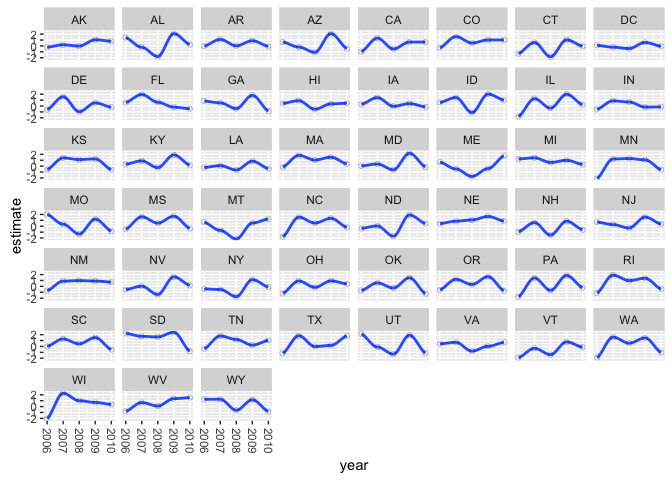
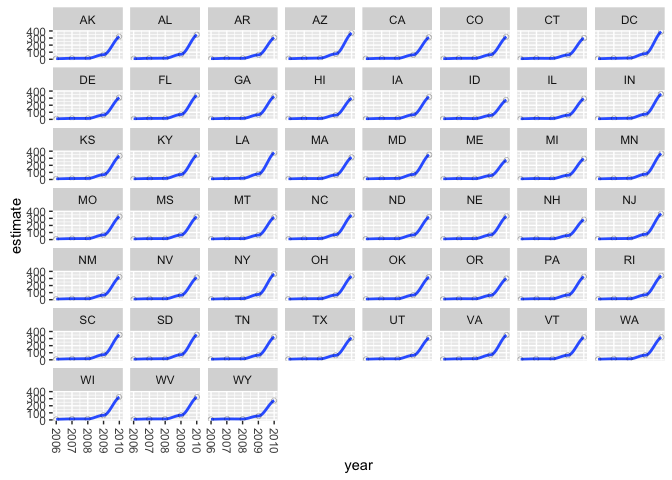
Refresh readme

diff --git a/README.md b/README.md
@@ -12,7 +12,7 @@ Installation
 ------------
 
 ``` r
-devtools::install_github("jamesdunham/dgirt")
+# devtools::install_github("jamesdunham/dgirt")
 ```
 
 Get updates by reinstalling. dgirt is in early stages and under development. See [NEWS](NEWS.md), last updated 2016-01-28.
@@ -30,7 +30,8 @@ Use
 `state_opinion` is a dataset included with `dgirt` in which rows correspond to survey responses from individuals.
 
 ``` r
-library(dgirt)
+# library(dgirt)
+devtools::load_all()
 data(state_opinion)
 ```
 
@@ -48,7 +49,7 @@ We'll use the `vars` argument to identify variables of importance in `data` (e.g
 The names of the item response variables start with "Q\_", so we'll pass them using `grep`.
 
 ``` r
-state_opinion_fmt = wrangle(
+wrangle_output = wrangle(
   data = list(level1 = state_opinion),
   vars = list(items = grep("^Q_", colnames(state_opinion), value = TRUE),
               groups = c("race"),
@@ -63,46 +64,70 @@ This output omits verbose messages. `wrangle` returns a list of objects that `dg
 
 `dgirt()` calls `rstan()`, which reports any problems it encounters when compiling the model and sampling. Reporting is verbose and not all messages indicate problems. If sampling is successful, `dgirt()` returns an object of class `stanfit`. (See rstan documentation.)
 
-A short trial run is often a good idea.
-
 ``` r
-dgirt_estimates = dgirt(state_opinion_fmt, n_iter = 3, n_chain = 1)
+dgirt_output = dgirt(wrangle_output, n_iter = 10, n_chain = 1)
 #> 
 #> SAMPLING FOR MODEL '84f408a951e786210b324c1e54eefa8c' NOW (CHAIN 1).
 #> 
-#> Chain 1, Iteration: 1 / 3 [ 33%]  (Warmup)
-#> Chain 1, Iteration: 2 / 3 [ 66%]  (Warmup)
-#> Chain 1, Iteration: 3 / 3 [100%]  (Sampling)# 
-#> #  Elapsed Time: 0.116099 seconds (Warm-up)
-#> #                0.013264 seconds (Sampling)
-#> #                0.129363 seconds (Total)
+#> Chain 1, Iteration: 1 / 10 [ 10%]  (Warmup)
+#> Chain 1, Iteration: 2 / 10 [ 20%]  (Warmup)
+#> Chain 1, Iteration: 3 / 10 [ 30%]  (Warmup)
+#> Chain 1, Iteration: 4 / 10 [ 40%]  (Warmup)
+#> Chain 1, Iteration: 5 / 10 [ 50%]  (Warmup)
+#> Chain 1, Iteration: 6 / 10 [ 60%]  (Warmup)
+#> Chain 1, Iteration: 7 / 10 [ 70%]  (Warmup)
+#> Chain 1, Iteration: 8 / 10 [ 80%]  (Sampling)
+#> Chain 1, Iteration: 9 / 10 [ 90%]  (Sampling)
+#> Chain 1, Iteration: 10 / 10 [100%]  (Sampling)# 
+#> #  Elapsed Time: 0.394312 seconds (Warm-up)
+#> #                1.18672 seconds (Sampling)
+#> #                1.58103 seconds (Total)
 #> #
 ```
 
-We omit verbose messages here. Now, a longer run:
-
-    # Not run
-    dgirt_estimates = dgirt(state_opinion_fmt, n_iter = 2000, n_chain = 4)
-
-To examine the the `dgirt()` results we can use `extract_dgirt()`, which attaches labels to the saved parameters according to the variable names originally passed to `wrangle()` and any factor levels. Right now, `extract_dgirt()` shows only the posterior means.
-
-Note that `dgirt()` returns a `stanfit` object when `method = "rstan"` (as above, the default) and a list of point estimates if `method = "optimize"` (details below); `extract_dgirt()` only works with `stanfit` objects. (The inconsistency in return types isn't desirable and will change in the future.)
-
-The group means can be found as `theta_bar`.
+Before examining the `dgirt()` output we might want to name its elements.
 
 ``` r
-dgirt_extract = extract_dgirt(dgirt_estimates, state_opinion_fmt)
-head(dgirt_extract$theta_bar)
-#> Source: local data frame [6 x 6]
+named_dgirt_output = name(dgirt_output, wrangle_output)
+```
+
+The group means can be found as an array `theta_bar`, which is samples x periods x groups. We can `apply` over the sampler iterations (just the 3 in 10 kept from our short run, in this example) to summarize the posterior.
+
+``` r
+str(named_dgirt_output$theta_bar)
+#>  num [1:3, 1:5, 1:153] 7.39 7.22 7.27 14.45 12.93 ...
+#>  - attr(*, "dimnames")=List of 3
+#>   ..$ iterations: NULL
+#>   ..$ time      : chr [1:5] "2006" "2007" "2008" "2009" ...
+#>   ..$ group     : chr [1:153] "black_x_AK" "black_x_AL" "black_x_AR" "black_x_AZ" ...
+group_posterior_means = apply(named_dgirt_output$theta_bar, 2:3, mean)
+group_posterior_means[2:3, 1:5]
+#>       group
+#> time   black_x_AK black_x_AL black_x_AR black_x_AZ black_x_CA
+#>   2007   13.50196   13.47203   13.49858   13.50428   13.47893
+#>   2008   13.35576   13.94017   12.29895   15.84052   12.98455
+```
+
+Alternatively, `apply_dgirt()` can apply a function like `mean` over the posteriors of all `dgirt` parameters at once.
+
+``` r
+posterior_means = apply_dgirt(dgirt_output, wrangle_output, fun = 'mean')
+posterior_means$theta_bar
+#> Source: local data frame [765 x 6]
 #> 
-#>    Var1  Var2      value  year  state   race
-#>   (int) (int)      (dbl) (dbl) (fctr) (fctr)
-#> 1     1     1 -1.8427288  2006     AK  black
-#> 2     2     1  1.0055756  2007     AK  black
-#> 3     3     1  0.4272677  2008     AK  black
-#> 4     4     1 -0.3506091  2009     AK  black
-#> 5     5     1  0.9051608  2010     AK  black
-#> 6     1     2  0.1439138  2006     AL  black
+#>     Var1  Var2      value  year  state   race
+#>    (int) (int)      (dbl) (dbl) (fctr) (fctr)
+#> 1      1     1   7.296147  2006     AK  black
+#> 2      2     1  13.501962  2007     AK  black
+#> 3      3     1  13.355764  2008     AK  black
+#> 4      4     1  62.337810  2009     AK  black
+#> 5      5     1 309.667345  2010     AK  black
+#> 6      1     2   7.297617  2006     AL  black
+#> 7      2     2  13.472031  2007     AL  black
+#> 8      3     2  13.940167  2008     AL  black
+#> 9      4     2  65.152305  2009     AL  black
+#> 10     5     2 323.528165  2010     AL  black
+#> ..   ...   ...        ...   ...    ...    ...
 ```
 
 `cmdstan`
@@ -110,32 +135,23 @@ head(dgirt_extract$theta_bar)
 
 We can use the `method` argument of `dgirt` to choose an alternative to MCMC sampling if `cmdstan` is available. See <http://mc-stan.org/interfaces/cmdstan.html> for installation instructions. For example, setting `method = "optimize"` will call `cmdstan optimize`.
 
-First, a trial run.
-
 ``` r
-optimize_estimates = dgirt(state_opinion_fmt, n_iter = 20, method = "optimize",
-  init_range = 0.5)
-#> Started: Tue Feb 16 12:16:43 2016
+optimize_output = dgirt(wrangle_output, n_iter = 20, method = "optimize", init_range = 0.5)
+#> Started: Thu Feb 18 15:52:19 2016
 #> Reading results from disk.
-#> Ended: Tue Feb 16 12:16:45 2016
-head(optimize_estimates$theta_bar)
+#> Ended: Thu Feb 18 15:52:21 2016
+head(optimize_output$theta_bar)
 #> Source: local data frame [6 x 5]
 #> 
-#>           param      value  year  state   race
-#>          (fctr)      (dbl) (dbl) (fctr) (fctr)
-#> 1 theta_bar.1.1  0.5279930  2006     AK  black
-#> 2 theta_bar.2.1 -0.0231967  2007     AK  black
-#> 3 theta_bar.3.1  0.3284820  2008     AK  black
-#> 4 theta_bar.4.1  0.8574990  2009     AK  black
-#> 5 theta_bar.5.1  1.3164900  2010     AK  black
-#> 6 theta_bar.1.2  0.6745130  2006     AL  black
+#>           param     value  year  state   race
+#>          (fctr)     (dbl) (dbl) (fctr) (fctr)
+#> 1 theta_bar.1.1 1.1278800  2006     AK  black
+#> 2 theta_bar.2.1 1.1025000  2007     AK  black
+#> 3 theta_bar.3.1 0.6897520  2008     AK  black
+#> 4 theta_bar.4.1 0.0971638  2009     AK  black
+#> 5 theta_bar.5.1 0.8052460  2010     AK  black
+#> 6 theta_bar.1.2 0.6783520  2006     AL  black
 ```
-
-And now a longer run.
-
-    # Not run
-    optimize_estimates = dgirt(state_opinion_fmt, n_iter = 20000,
-      method = "optimize", init_range = 0.5)
 
 `poststratify`
 --------------
@@ -163,59 +179,59 @@ state_demographics$race = factor(state_demographics$race, labels = c("white", "b
 Now we pass these data, the same `groups` argument as used originally with `wrangle`, and a vector of variable names as `strata` that define aggregations of interest in the data. For exposition we'll set two optional variables. We give the name of the variable in the demographic data for the population proportion as `prop_var`. And passing a variable name to `summands` will test the demographic data for whether population proportions sum to one within groups defined by the values of that variable.
 
 ``` r
-dgirt_extract$theta_bar$year = as.integer(dgirt_extract$theta_bar$year)
-group_means = poststratify(
-  group_means = dgirt_extract$theta_bar,
+posterior_means$theta_bar$year = as.integer(posterior_means$theta_bar$year)
+poststratify_output = poststratify(
+  group_means = posterior_means$theta_bar,
   targets =  state_demographics,
   groups = c("race"),
   strata = c("state", "year"),
   prop_var = "proportion",
   summands = "year")
-#> Warning in poststratify(group_means = dgirt_extract$theta_bar, targets =
-#> state_demographics, : More rows of proportions than combinations of its
+#> Warning in poststratify(group_means = posterior_means$theta_bar, targets
+#> = state_demographics, : More rows of proportions than combinations of its
 #> strata and grouping variables. Summing proportions over other variables.
 #> Warning in inner_join_impl(x, y, by$x, by$y): joining factors with
 #> different levels, coercing to character vector
-head(group_means)
+head(poststratify_output)
 #> Source: local data frame [6 x 3]
 #> 
-#>    state  year       value
-#>   (fctr) (int)       (dbl)
-#> 1     AK  2006 -0.22472674
-#> 2     AK  2007  0.18481747
-#> 3     AK  2008 -0.02252691
-#> 4     AK  2009  1.04186499
-#> 5     AK  2010  0.79236440
-#> 6     AL  2006  1.42507746
+#>    state  year      value
+#>   (fctr) (int)      (dbl)
+#> 1     AK  2006   7.298276
+#> 2     AK  2007  13.485674
+#> 3     AK  2008  13.851239
+#> 4     AK  2009  64.845489
+#> 5     AK  2010 320.245700
+#> 6     AL  2006   7.298520
 ```
 
 The same approach works after `dgirt()` if `method = "optimize"`.
 
 ``` r
-optimize_estimates$theta_bar$year = as.integer(optimize_estimates$theta_bar$year)
-optimize_group_means = poststratify(
-  group_means = optimize_estimates$theta_bar,
+optimize_output$theta_bar$year = as.integer(optimize_output$theta_bar$year)
+optimize_poststratify_output = poststratify(
+  group_means = optimize_output$theta_bar,
   targets =  state_demographics,
   groups = c("race"),
   strata = c("state", "year"),
   prop_var = "proportion",
   summands = "year")
-#> Warning in poststratify(group_means = optimize_estimates$theta_bar, targets
+#> Warning in poststratify(group_means = optimize_output$theta_bar, targets
 #> = state_demographics, : More rows of proportions than combinations of its
 #> strata and grouping variables. Summing proportions over other variables.
 #> Warning in inner_join_impl(x, y, by$x, by$y): joining factors with
 #> different levels, coercing to character vector
-head(optimize_group_means)
+head(optimize_poststratify_output)
 #> Source: local data frame [6 x 3]
 #> 
-#>    state  year      value
-#>   (fctr) (int)      (dbl)
-#> 1     AK  2006 0.41113213
-#> 2     AK  2007 0.07350468
-#> 3     AK  2008 0.22178749
-#> 4     AK  2009 0.57646164
-#> 5     AK  2010 0.90082746
-#> 6     AL  2006 0.11206140
+#>    state  year       value
+#>   (fctr) (int)       (dbl)
+#> 1     AK  2006 0.591092039
+#> 2     AK  2007 0.329401870
+#> 3     AK  2008 0.258412869
+#> 4     AK  2009 0.002827527
+#> 5     AK  2010 0.394233455
+#> 6     AL  2006 0.113420651
 ```
 
 `plot_means`
@@ -224,17 +240,17 @@ head(optimize_group_means)
 We can quickly plot group means with `plot_means`. It can handle the `theta_bar` element of the value of `poststratify()`. (Figures omitted.)
 
 ``` r
-plot_means(group_means, "year", "state", jitter = TRUE)
+plot_means(poststratify_output, "year", "state", jitter = TRUE)
 ```
 
-Or that of `dgirt_extract()` where dgirt(`method = "rstan"`),
+Or that of `apply_dgirt()` where dgirt(`method = "rstan"`),
 
 ``` r
-plot_means(dgirt_extract$theta_bar, "year", "state", jitter = TRUE)
+plot_means(posterior_means$theta_bar, "year", "state", jitter = TRUE)
 ```
 
 Or the value of `dgirt()` in the case of `method = "optimize"`.
 
 ``` r
-plot_means(optimize_estimates$theta_bar, "year", "state", jitter = TRUE)
+plot_means(optimize_output$theta_bar, "year", "state", jitter = TRUE)
 ```
